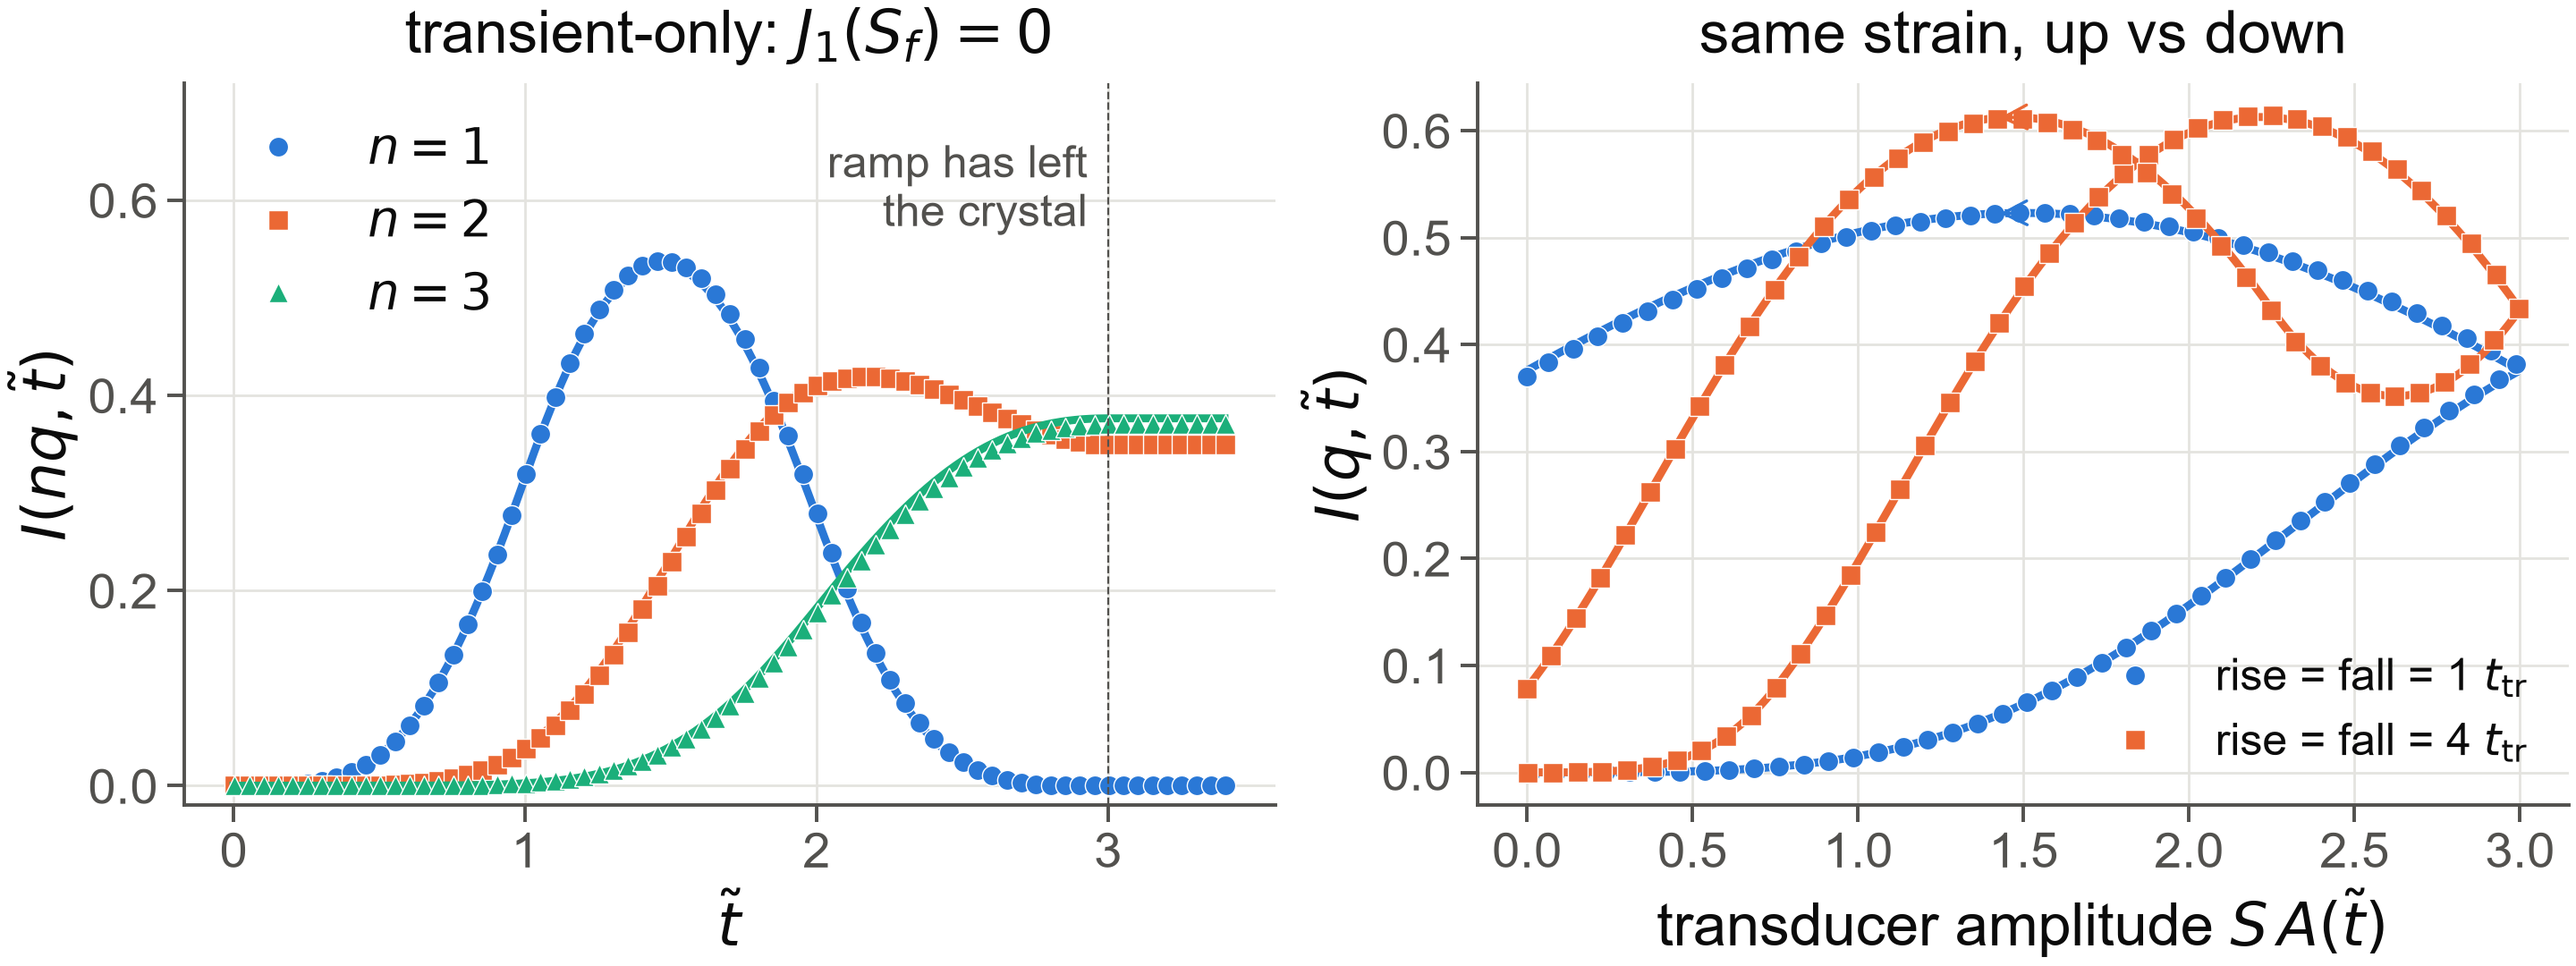
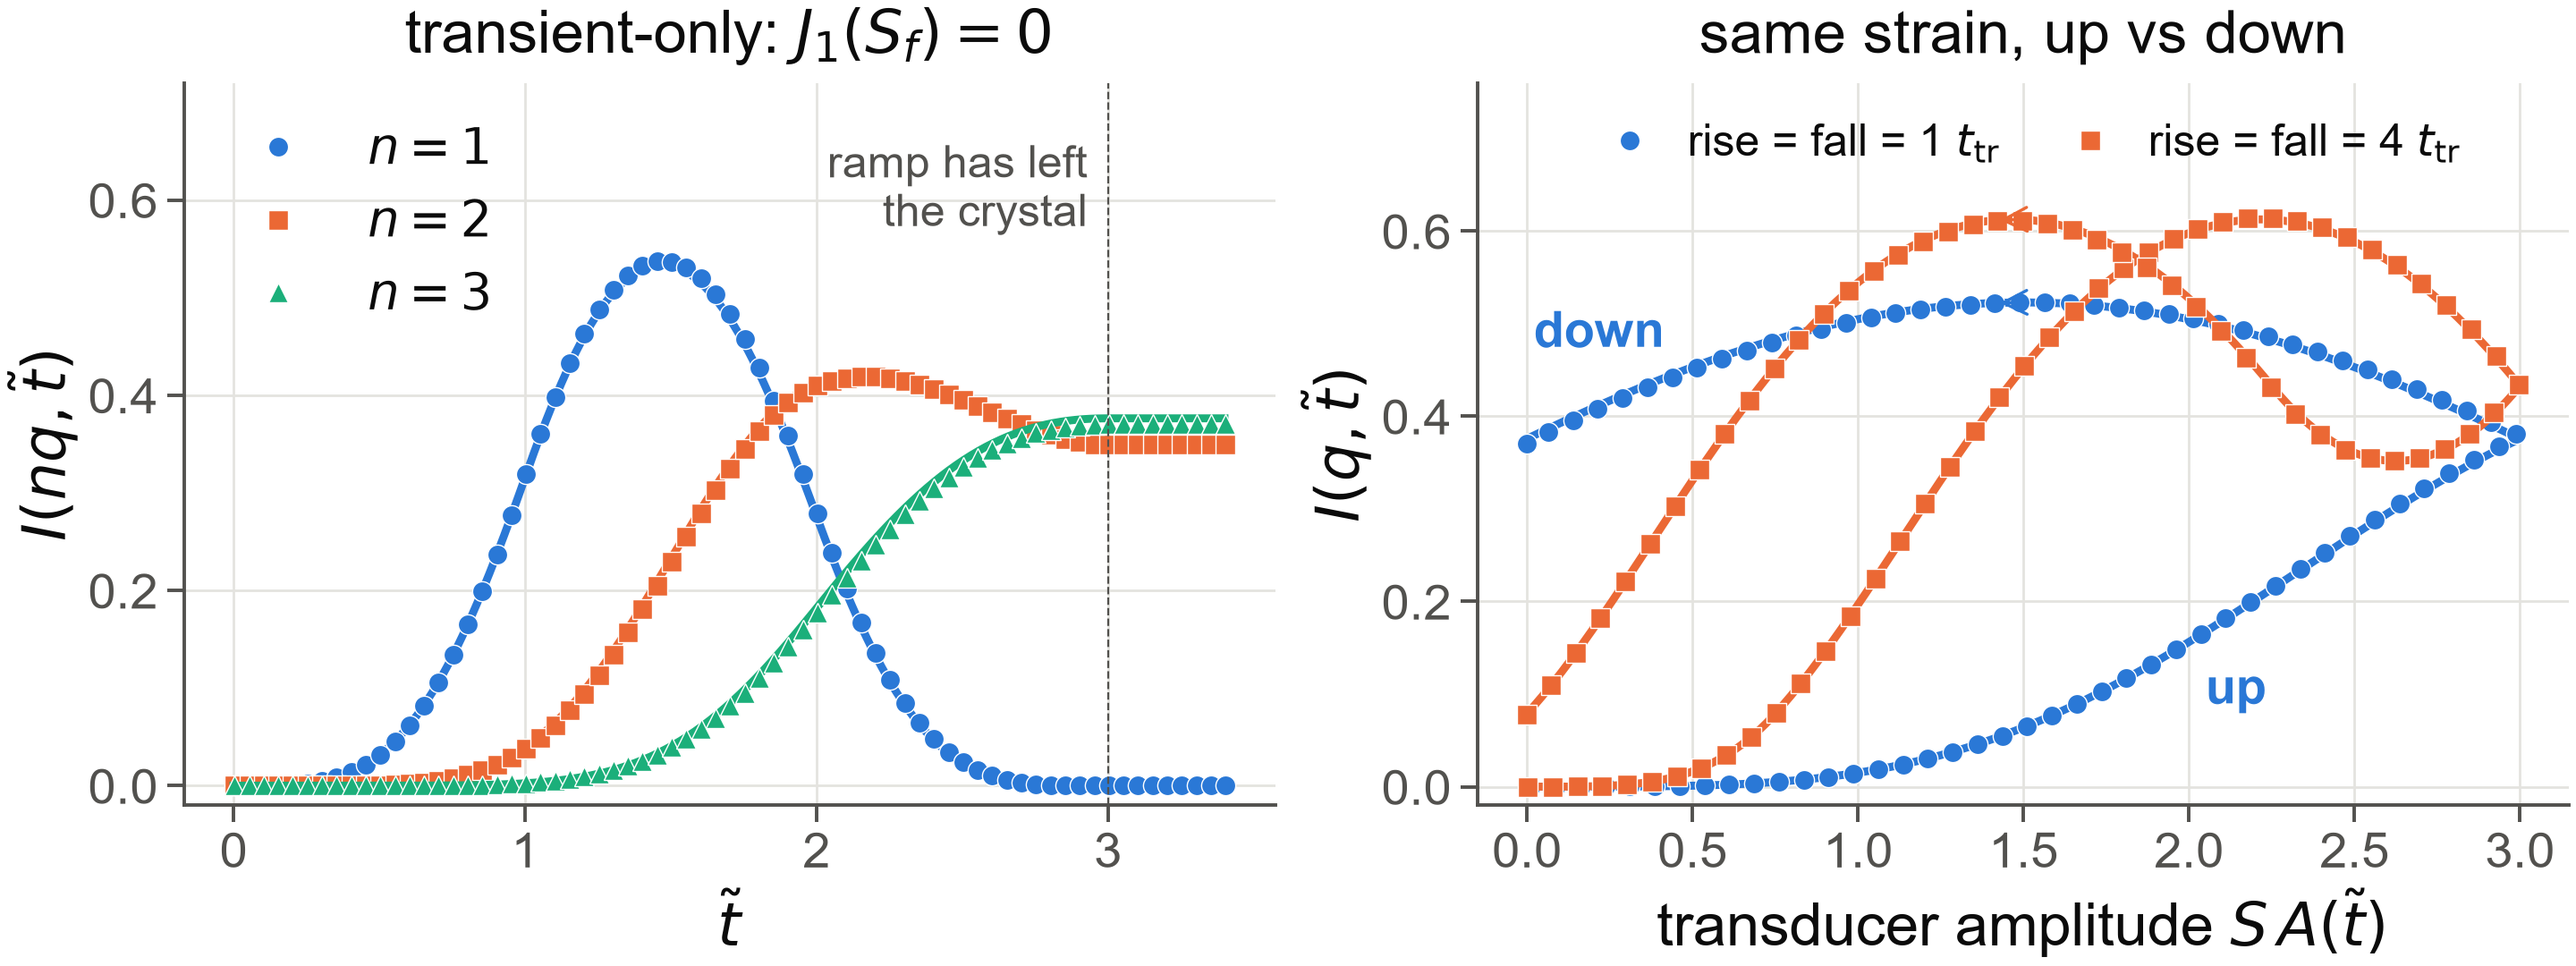
Poster design pass: formation-order bullet, larger key-message callout, cleaner figures
- panel 03: formation order follows the Bessel ladder (Entries 1, 24)
- callout text 32 pt; simpler inline math (no floating t*, no stacked integral limits)
- f3: up/down branch labels and a one-row legend; f4: discrete S colour bar
- build.py takes an optional preview dpi for detail checks

diff --git a/poster/build.py b/poster/build.py
@@ -14,6 +14,8 @@ Manuscript syntax
   "- text"        bullet                                  "![caption](path)" figure (width = card)
   {E12}           notebook entry tag (stripped from print, required on every item)
 
+Usage: python poster/build.py [preview_dpi]   (default 60; use ~150 to inspect details)
+
 Checks
 1. every paragraph, bullet, callout and figure carries an {E..} tag, and each tagged Entry exists in
    notes/lab_notebook.md (nothing goes on the poster without its entry);
@@ -48,7 +50,7 @@ NOTEBOOK = ROOT / "notes" / "lab_notebook.md"
 SPEC = dict(
     W=841, H=1189, margin=16, gap=14, cols=2, pad=12,
     header_h=130, stripe_h=5, footer_h=62,
-    title_pt=64, authors_pt=34, head_pt=44, body_pt=28, caption_pt=22, min_pt=20,
+    title_pt=64, authors_pt=34, head_pt=44, body_pt=28, callout_pt=32, caption_pt=22, min_pt=20,
     leading=1.30, para_gap=7, panel_gap=14, fig_gap=4,
     navy="#0f2a3a", page="#efefef", card="#ffffff", head="#2f5597", ink="#1b1b1b", ink2="#55524c",
     callout="#fff2cc", stripe=("#3a3a3a", "#e04b3a", "#f08a3c"), rule="#d5dbe5",
@@ -170,7 +172,7 @@ class Page:
         return h
 
 
-def build():
+def build(preview_dpi=60):
     s = SPEC
     meta, panels = parse(MS.read_text(encoding="utf8"))
     known = set(re.findall(r"^## .*?Entry (\d+)\b", NOTEBOOK.read_text(encoding="utf8"), flags=re.M))
@@ -260,7 +262,7 @@ def build():
                 y = P.flow(it["text"], ix, y, iw, s["body_pt"], indent=8) + s["para_gap"]
             elif it["kind"] == "callout":
                 y0c = y
-                y = P.flow(it["text"], ix + 8, y + 6, iw - 16, s["body_pt"]) + 6
+                y = P.flow(it["text"], ix + 8, y + 7, iw - 16, s["callout_pt"]) + 7
                 ax.add_patch(FancyBboxPatch((ix, y0c), iw, y - y0c, boxstyle="round,pad=0,rounding_size=3",
                                             fc=s["callout"], ec="none", zorder=2))
                 y += s["para_gap"]
@@ -286,7 +288,7 @@ def build():
 
     OUT.mkdir(exist_ok=True)
     P.fig.savefig(OUT / "poster.pdf")
-    P.fig.savefig(OUT / "poster.png", dpi=60)
+    P.fig.savefig(OUT / "poster.png", dpi=preview_dpi)
     print("column bottoms (mm left above footer): " + "  ".join(f"{i + 1}: {bottom - (v - s['panel_gap']):.0f}"
                                                               for i, v in enumerate(ys)))
     print("entries cited: " + ", ".join(f"E{e}" for e in sorted(used)))
@@ -301,4 +303,4 @@ def build():
 
 
 if __name__ == "__main__":
-    sys.exit(build())
+    sys.exit(build(int(sys.argv[1]) if len(sys.argv) > 1 else 60))   # optional preview dpi

diff --git a/explore/make_poster_figs.py b/explore/make_poster_figs.py
@@ -138,7 +138,11 @@ def f3():
             line.set_markersize(8)
     ax[0].texts[0].set(position=(2.93, 0.66), ha="right", va="top")
     ax[0].legend(frameon=False, loc="upper left", fontsize=SMALL)
-    ax[1].legend(frameon=False, loc="lower right", fontsize=SMALL - 2)
+    ax[1].set_ylim(-0.02, 0.76)
+    ax[1].legend(frameon=False, loc="upper center", ncol=2, fontsize=SMALL - 2, columnspacing=1.0, handletextpad=0.3)
+    # which branch is which: every loop starts at the origin, so the lower branch is the rise
+    ax[1].text(2.05, 0.09, "up", color=BLUE, fontsize=SMALL, fontweight="bold")
+    ax[1].text(0.02, 0.475, "down", color=BLUE, fontsize=SMALL, fontweight="bold")
     finish(fig, ax, "f3_memory")
 
 
@@ -157,7 +161,13 @@ def f4():
         ax.text(1.3e-3, e * 1.12, lab, fontsize=SMALL, color=INK2)
     ax.set(xscale="log", yscale="log", ylim=(5e-5, 1.5), xlim=(1e-3, 6),
            xlabel=r"$R=\Lambda_{ac}/\Lambda_P$", ylabel="population error $E_{pop}$")
-    ax.legend(frameon=False, ncol=3, loc="lower right", fontsize=SMALL - 2, markerscale=1.2)
+    # nine S values: a discrete colour bar reads better than a nine-entry legend
+    cmap = mpl.colors.ListedColormap(hues)
+    norm = mpl.colors.BoundaryNorm(np.arange(len(Ss) + 1) - 0.5, len(Ss))
+    cb = fig.colorbar(mpl.cm.ScalarMappable(norm=norm, cmap=cmap), ax=ax, pad=0.01, aspect=25)
+    cb.set_ticks(range(len(Ss)), labels=[f"{S:g}" for S in Ss])
+    cb.set_label("modulation index $S$")
+    cb.outline.set_visible(False)
     finish(fig, ax, "f4_regime")
 
 

diff --git a/poster/poster.md b/poster/poster.md
@@ -30,6 +30,7 @@ A travelling acoustic wave enters a perfect crystal. The steady-state satellites
 
 - Laue: $I(nq,t) = \sin^2(\pi\alpha_n t)$, a temporal Pendellösung with period $\Lambda_P/(v_s|J_n(S)|)$, independent of $L$. {E1}
 - Bragg: $I(nq,t) = \tanh^2(\pi\alpha_n t)$; the naive $t_f \sim t_{tr}/\alpha$ holds with $\alpha \to \alpha|J_n(S)|$. {E9}
+- Formation order follows the Bessel ladder: channel $n$ first peaks at $t^*/t_{tr} = 1/(2\alpha|J_n(S)|)$, so $S$ reorders the channels (at $S=3$: $n=2$, then 1, then 3). {E1}{E24}
 
 ![Points: full Takagi–Taupin for four $(S, \alpha, n)$; lines: closed forms, no fit parameter.](figures/poster/f1_collapse.png){E1}{E9}
 
@@ -43,7 +44,7 @@ A travelling acoustic wave enters a perfect crystal. The steady-state satellites
 
 ## Formation remembers the path
 
-Satellite $n$ reads the last $t_{tr}$ of the drive, $\Theta_n = \int_0^1 J_n(S\,A(t-\zeta))\,d\zeta$ ($\sin^2$ Laue, $\tanh^2$ Bragg). An order forbidden at the final amplitude, $J_1(S_f)=0$, is the brightest line during formation. {E28}{E30}{E34}
+Satellite $n$ reads the last $t_{tr}$ of the drive through $\Theta_n = \int J_n(S\,A(t-\zeta))\,d\zeta$ over the depth ($\sin^2\Theta_n$ in Laue, $\tanh^2\Theta_n$ in Bragg). An order forbidden at the final amplitude, $J_1(S_f)=0$, is the brightest line during formation. {E28}{E30}{E34}
 
 ![Laue, $\alpha=0.5$: points full TT, lines the $\Theta_n$ law.](figures/poster/f3_memory.png){E28}{E30}
 
